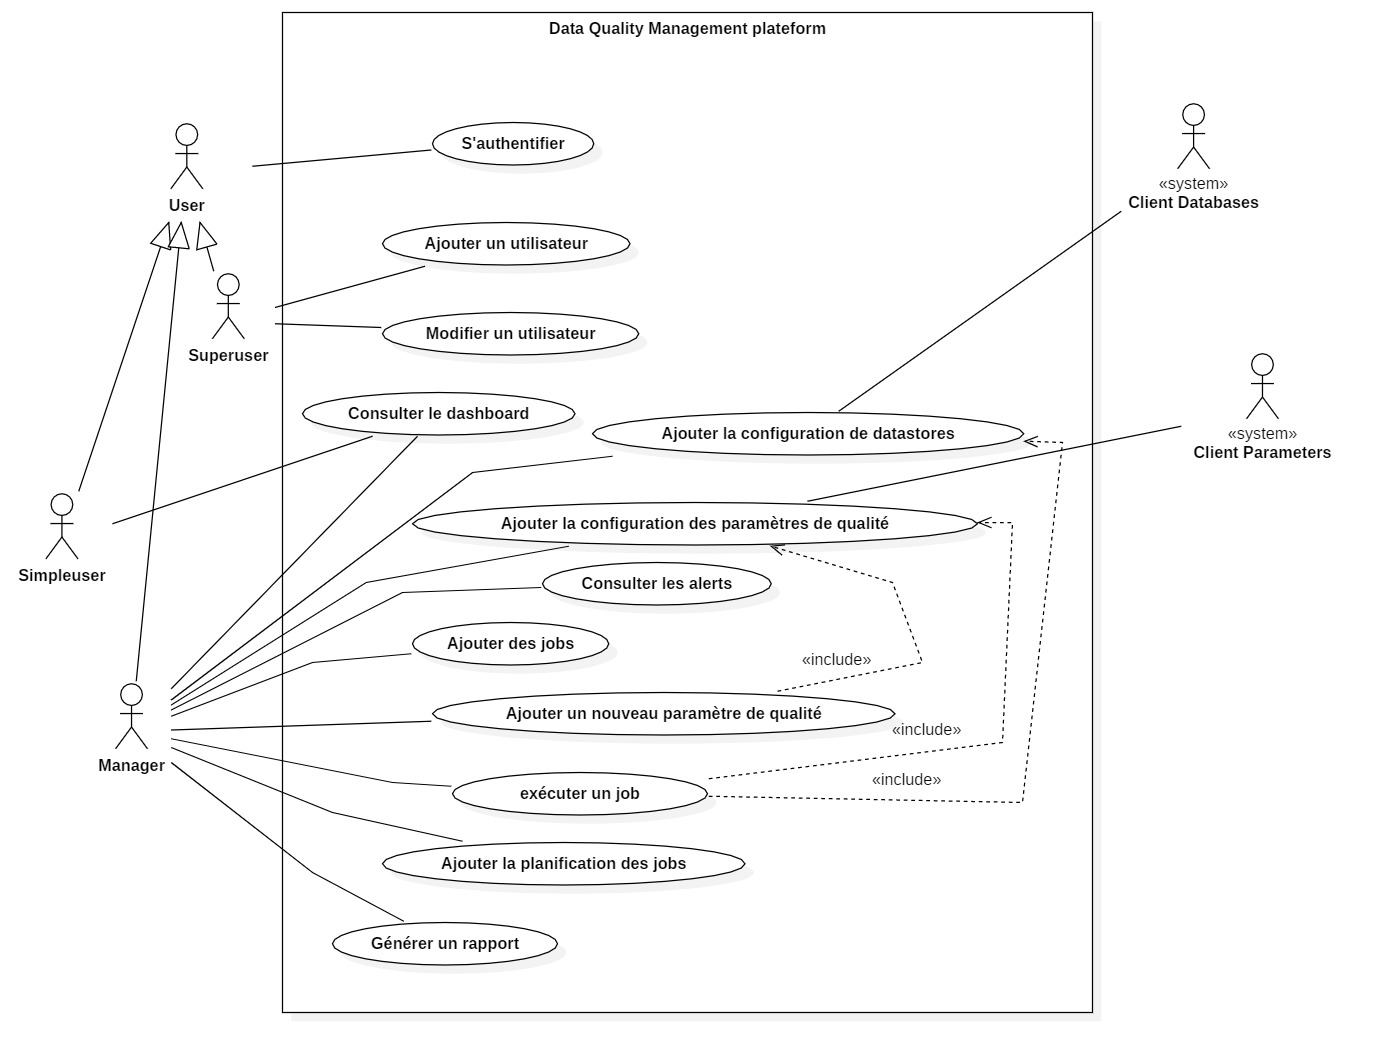
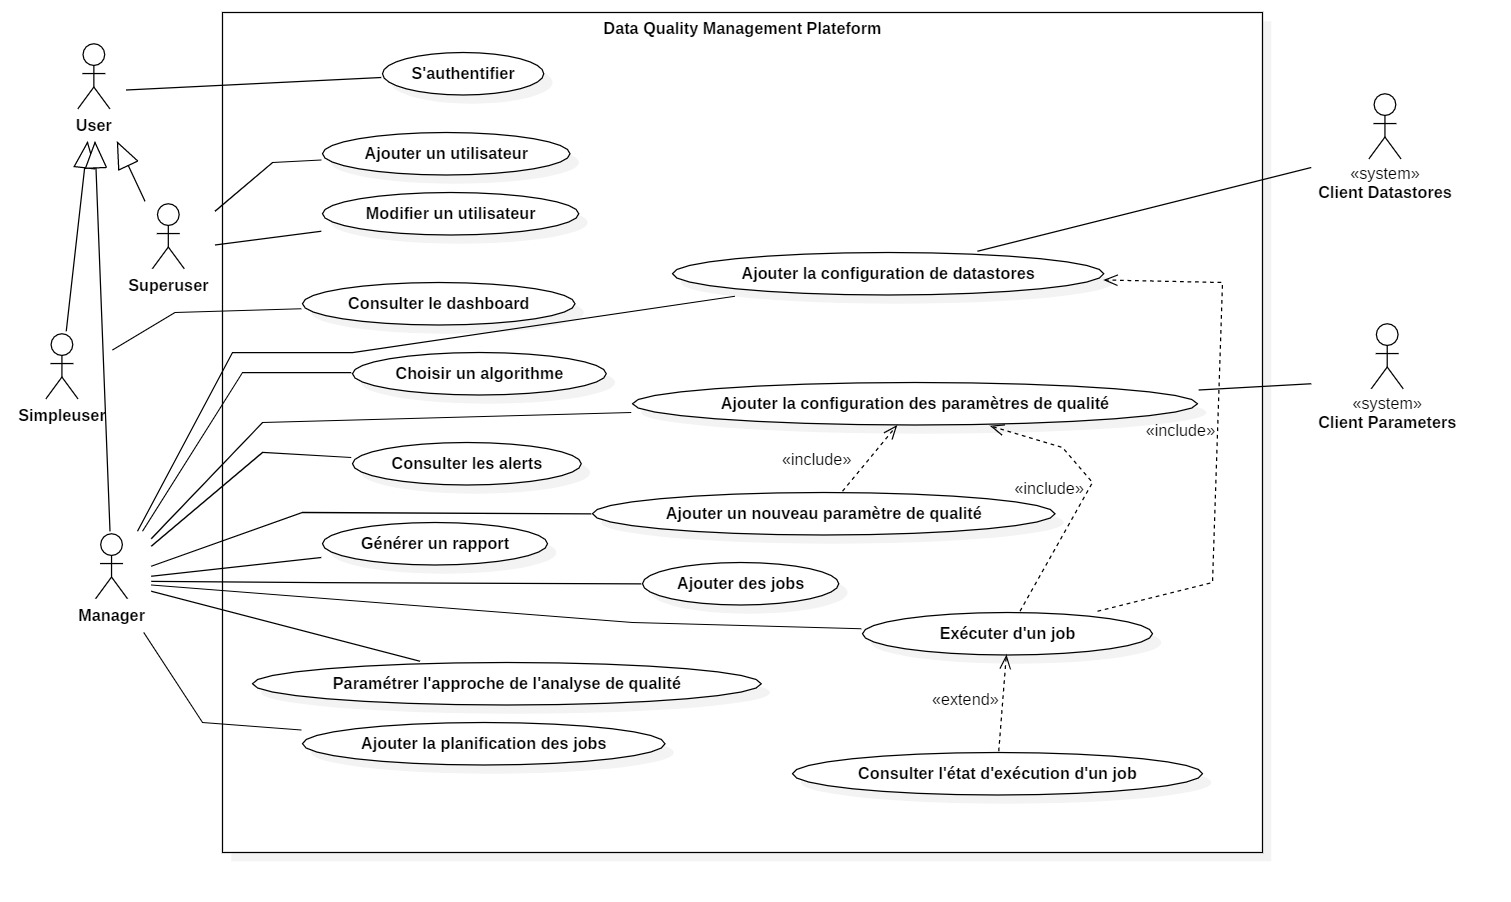
add new requirements and reformat some sentences

diff --git a/main.tex b/main.tex
@@ -8,12 +8,16 @@
 \usepackage{graphicx}
 \usepackage[french]{babel}
 \usepackage{tabu}
+\usepackage{biblatex}
+
+\addbibresource{references.bib}
 
 \title{Cahier des charges}
 
 \author{Brahim BAHAIDA}
 
-\date{Jeudi 17 janvier 2019}
+\date{Vendredi 18 Janvier 2019}
+
 
 
 
@@ -54,6 +58,8 @@ Brahim BAHAIDA  & Réalisateur du projet \\
  \hline
  1.0  & 17/01/2019 \\
 \hline
+ 1.1  & 18/01/2019 \\
+\hline
 \end{tabu}
 
 \section*{glossaire}
@@ -78,6 +84,8 @@ W3C  & World Wide Web Consortium \\
 \hline
 EF  & Exigence fonctionnelle \\
 \hline
+SoD  & Separation of duties \\
+\hline
 
 \end{tabu}
 \\
@@ -85,18 +93,14 @@ EF  & Exigence fonctionnelle \\
 Ce chapitre vise à présenter le contexte, le planning et les contraintes du projet.
 \section{Description du projet}
 
-Data Quality (DQ) est un concept et un terme de business désignant la qualité des données utilisées dans un but particulier. Souvent, le terme DQ s'applique à la qualité des données utilisées dans la prise de décisions des entreprises, mais il peut aussi désigner la qualité des données utilisées dans les recherches, les campagnes, les processus et plus encore.
-\\
-\\
-Une erreur dans un système de stockage de données ou un rapport de business intelligence peut sembler minime au premier abord. Il peut être tentant pour les analystes de l'ignorer ou de truquer les chiffres du mois. Peut-être qu'ils se diront : " Ce sera corrigé plus tard ".
-\\
-\\
-Cependant, si l'équipe chargée du data science ou du Business Intelligence ne comprend pas parfaitement pourquoi cela s'est produit, elle risque de se retrouver avec une erreur encore plus grande dans son prochain rapport ou dans les informations qu'elle fournira à la direction.
-\\
-\\
+Data Quality (DQ) est un concept et un terme de business désignant la qualité des données utilisées dans un but particulier. Souvent, le terme DQ s'applique à la qualité des données utilisées dans la prise de décisions des entreprises, mais il peut aussi désigner la qualité des données utilisées dans les recherches, les campagnes, les processus et plus encore \cite{datacleaner}.
+
+Une erreur dans un système de stockage de données ou un rapport de BI peut sembler minime au premier abord. Il peut être tentant pour les analystes de l'ignorer ou de truquer les chiffres du mois. Peut-être qu'ils se diront : " Ce sera corrigé plus tard "\cite{SeattleDataGuy}.
+
+Cependant, si l'équipe chargée du data science ou du BI ne comprend pas parfaitement pourquoi cela s'est produit, elle risque de se retrouver avec une erreur encore plus grande dans son prochain rapport ou dans les informations qu'elle fournira à la direction \cite{SeattleDataGuy}.
+
 L'objectif de ce projet est de concevoir et de développer une plateforme de gestion et d'amélioration de la qualité des données clients pour les institutions financières afin d'améliorer leur conformité réglementaire.
-\\
-\\
+
 Nous utiliserons le diagramme de contexte de la technique DFD (Data Flow Diagrams) pour illustrer les fonctionnalités de la plate-forme. 
 \\
 \\
@@ -109,14 +113,14 @@ Nous utiliserons le diagramme de contexte de la technique DFD (Data Flow Diagram
 
 \section{Planning}
 
-ce projet doit être complètement achevé au plus tard le début du mois de juillet 2019.
+Ce projet doit achever toutes les exigences prévues d'ici le début de juillet 2019.
 
 \section{Contraintes}
-Nous pouvons considérer les contraintes comme des exigences non fonctionnelles qui présentent des exigences internes pour le système et qui sont invisibles vis-à-vis de nos clients.
+Nous pouvons considérer les contraintes ci-dessous comme des exigences non fonctionnelles qui présentent des exigences internes pour le système et qui sont invisibles vis-à-vis de nos clients.
 \subsection{Accessibilité}
 Le système vise à atteindre au moins le niveau minimum d'accessibilité du Web (A) selon les niveaux d'accessibilité WCAG 2.0 établis par la WAI (Web Accessibility Initiative) du World Wide Web Consortium (W3C).
 \subsection{Responsive design}
-Pour rendre la plateforme conviviale, nous devons respecter les points suivants:
+Pour rendre la plateforme conviviale, la plate-forme doit respecter les points suivants:
 \begin{itemize}
     \item \textbf{Paramétrage HTML}
     \item \textbf{Mise en page flexible}
@@ -132,7 +136,7 @@ Cette plate-forme sera réalisée non pas pour un usage public via Internet mais
     \begin{itemize}
         \item \textbf{Manager:} il est chargé d'ajouter et d'éditer les configurations des bases de données et des paramètres, il peut générer le rapport de qualité des données.
         \\
-        \item \textbf{User:} il est un simple utilisateur qui peut accéder aux fonctionnalités de la plateforme mais il ne peut pas ajouter ou modifier les configurations.
+        \item \textbf{Simpleuser:} il est un simple utilisateur qui peut accéder aux fonctionnalités de la plateforme mais il ne peut pas ajouter ou modifier les configurations.
         \\
         \item \textbf{Superuser:} Il est chargé d'ajouter de nouveaux utilisateurs et de modifier leurs rôles, mais il n'aura pas accès aux autres fonctionnalités de la plateforme pour respecter au mieux le principe du SoD.
     \end{itemize}
@@ -149,7 +153,7 @@ Système en réponse à une demande présentée par un utilisateur. La figure su
 \includegraphics[width=\textwidth]{img/pages.jpg}\\
 \\
 
-A ce niveau, nous devons spécifier nos exigences en langage naturel, en utilisant les fiche GABARIT-VOLERE.
+A ce niveau, nous devons spécifier nos exigences en langage naturel, en utilisant les fiche GABARIT-VOLERE\cite{volere}.
 \\
 \\
 \noindent\fbox{%
@@ -393,7 +397,7 @@ A ce niveau, nous devons spécifier nos exigences en langage naturel, en utilisa
         \qquad \textbf{Type d'exigence:} Exigence fonctionnelle
         \\
         \\
-        \textbf{Cas d’utilisation:} Visualiser le état d'exécution d'un job
+        \textbf{Cas d’utilisation:} Consulter l'état d'exécution d'un job
         \\
         \\
         \textbf{Description :} le système doit permettre au Manger de visualiser le état d'exécution d'un job
@@ -465,8 +469,64 @@ A ce niveau, nous devons spécifier nos exigences en langage naturel, en utilisa
         \textbf{Exigences dépendantes:} EF1
     }%
 }
-
-Ci-dessous, le diagramme des cas d’utilisation du système,
+\\
+\\
+\\
+\noindent\fbox{%
+    \parbox{\textwidth}{%
+        \textbf{Numero d'exigence:} EF13
+        \qquad \textbf{Type d'exigence:} Exigence fonctionnelle
+         \\
+        \\
+        \textbf{Cas d’utilisation:} Choisir un algorithme
+        \\
+        \\
+        \textbf{Description :} le système doit permettre au Manager de choisir un algorithme pour l'appliquer.
+        \\
+        \\
+        \textbf{Acteur:} Manager
+        \\
+        \\
+        \textbf{Contentement du maître d’ouvrage:} 3
+        \\
+        \\
+        \textbf{Mécontentement du maître d’ouvrage:} 3
+        \\
+        \\
+        \textbf{Exigences dépendantes:} EF1
+    }%
+}
+\\
+\\
+\\
+\noindent\fbox{%
+    \parbox{\textwidth}{%
+        \textbf{Numero d'exigence:} EF14
+        \qquad \textbf{Type d'exigence:} Exigence fonctionnelle
+         \\
+        \\
+        \textbf{Cas d’utilisation:} Paramétrer l'approche de l'analyse de qualité  
+        \\
+        \\
+        \textbf{Description :} le système doit fournir au Manager deux approches paramétrables d'analyse de la qualité, une approche basée sur des règles et une partie basée sur une analyse automatique utilisant les techniques NLP.
+        \\
+        \\
+        \textbf{Acteur:} Manager
+        \\
+        \\
+        \textbf{Contentement du maître d’ouvrage:} 3
+        \\
+        \\
+        \textbf{Mécontentement du maître d’ouvrage:} 3
+        \\
+        \\
+        \textbf{Exigences dépendantes:} EF1
+    }%
+}
+\\
+\\
+\\
+Ci-dessous, nous avons regroupé ces exigences à l'aide du diagramme de cas d'utilisation du langage UML,
 \\
 \\
 \begin{figure}[h!]
@@ -474,13 +534,13 @@ Ci-dessous, le diagramme des cas d’utilisation du système,
   \includegraphics[width=\textwidth]{img/UseCaseDiagram.jpg}
 \end{figure}
 
-
+\newpage
 \section{Specifications techniques} 
 \subsection{Les langages de développement}
 Ces technologies seront utilisées pour développer cette plateforme:
 \begin{itemize}
     \item \textbf{Backend} Java en utilisant Spring boot.
-    \item \textbf{Frontend} Javascript en utilisant Angular.
+    \item \textbf{Frontend} Typescripts en utilisant Angular.
 \end{itemize}
 
 \subsection{Les conventions de développement}
@@ -490,4 +550,6 @@ le développeur doit respecter les conventions suivantes:
     \item \textbf{SOLID:} la plate-forme doit être en conformité avec les principes SOLID.
     \item \textbf{Documentation:} la plate-forme doit offrir des documentations via Java-doc, Swagger et CompoDoc.
 \end{itemize}
+
+\printbibliography[title={Références}]
 \end{document}
